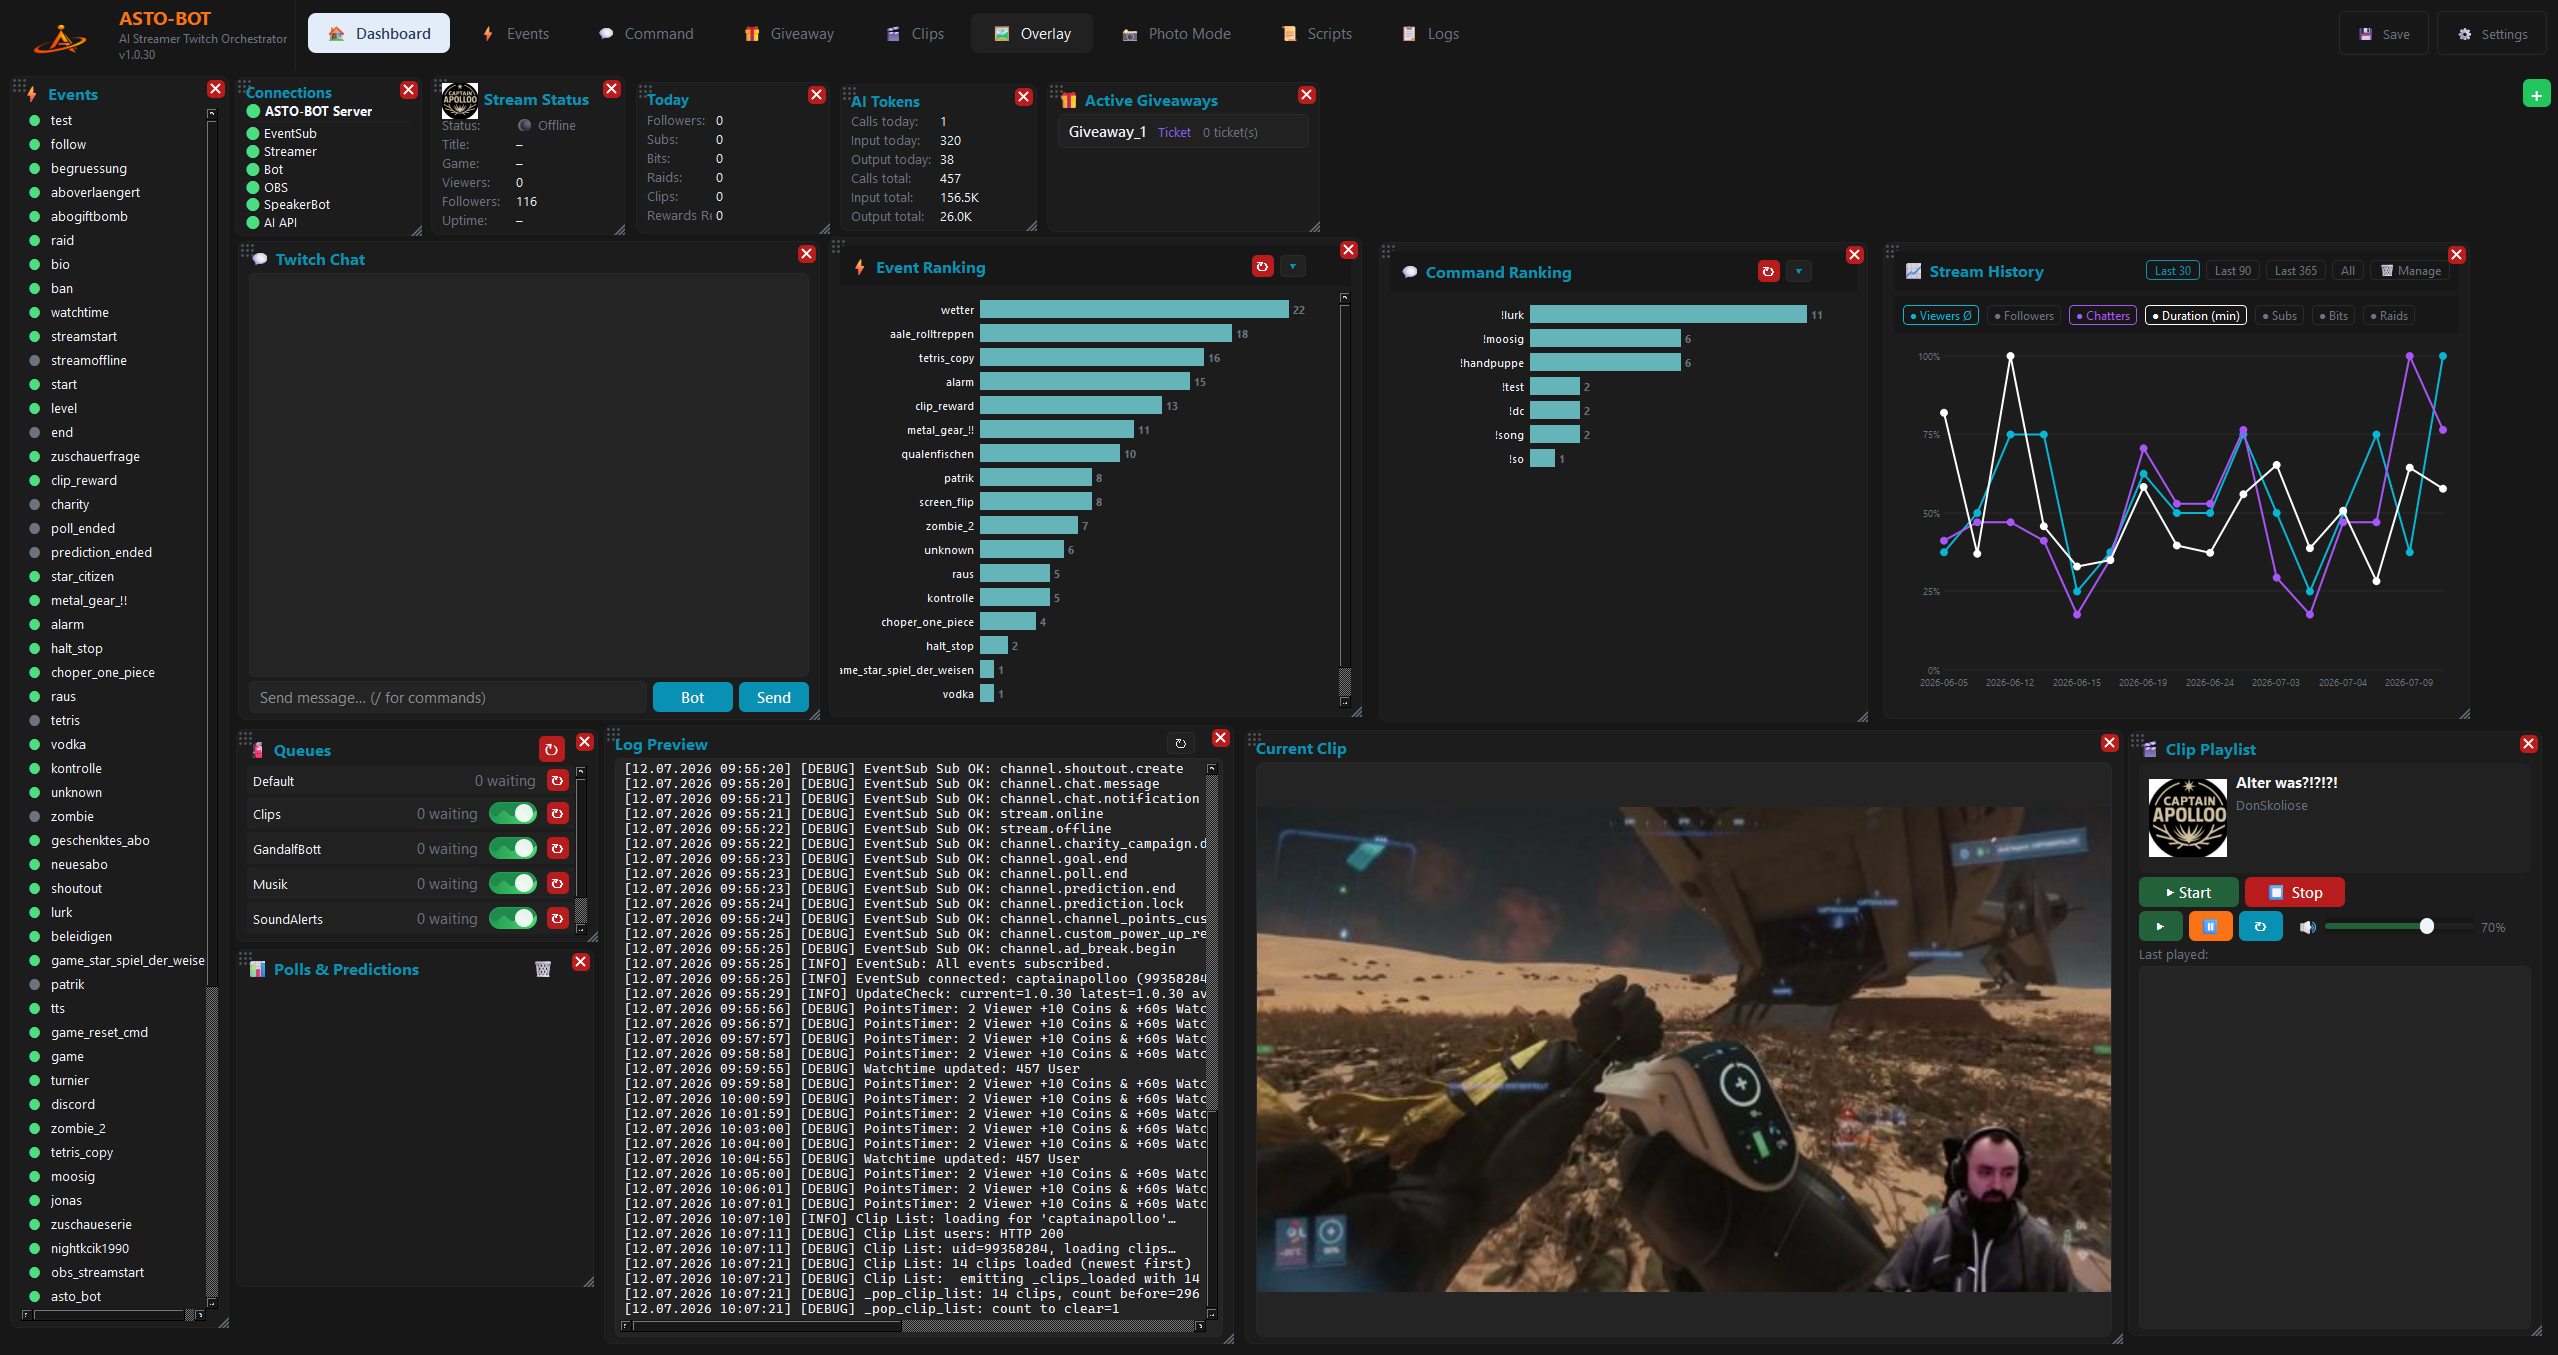
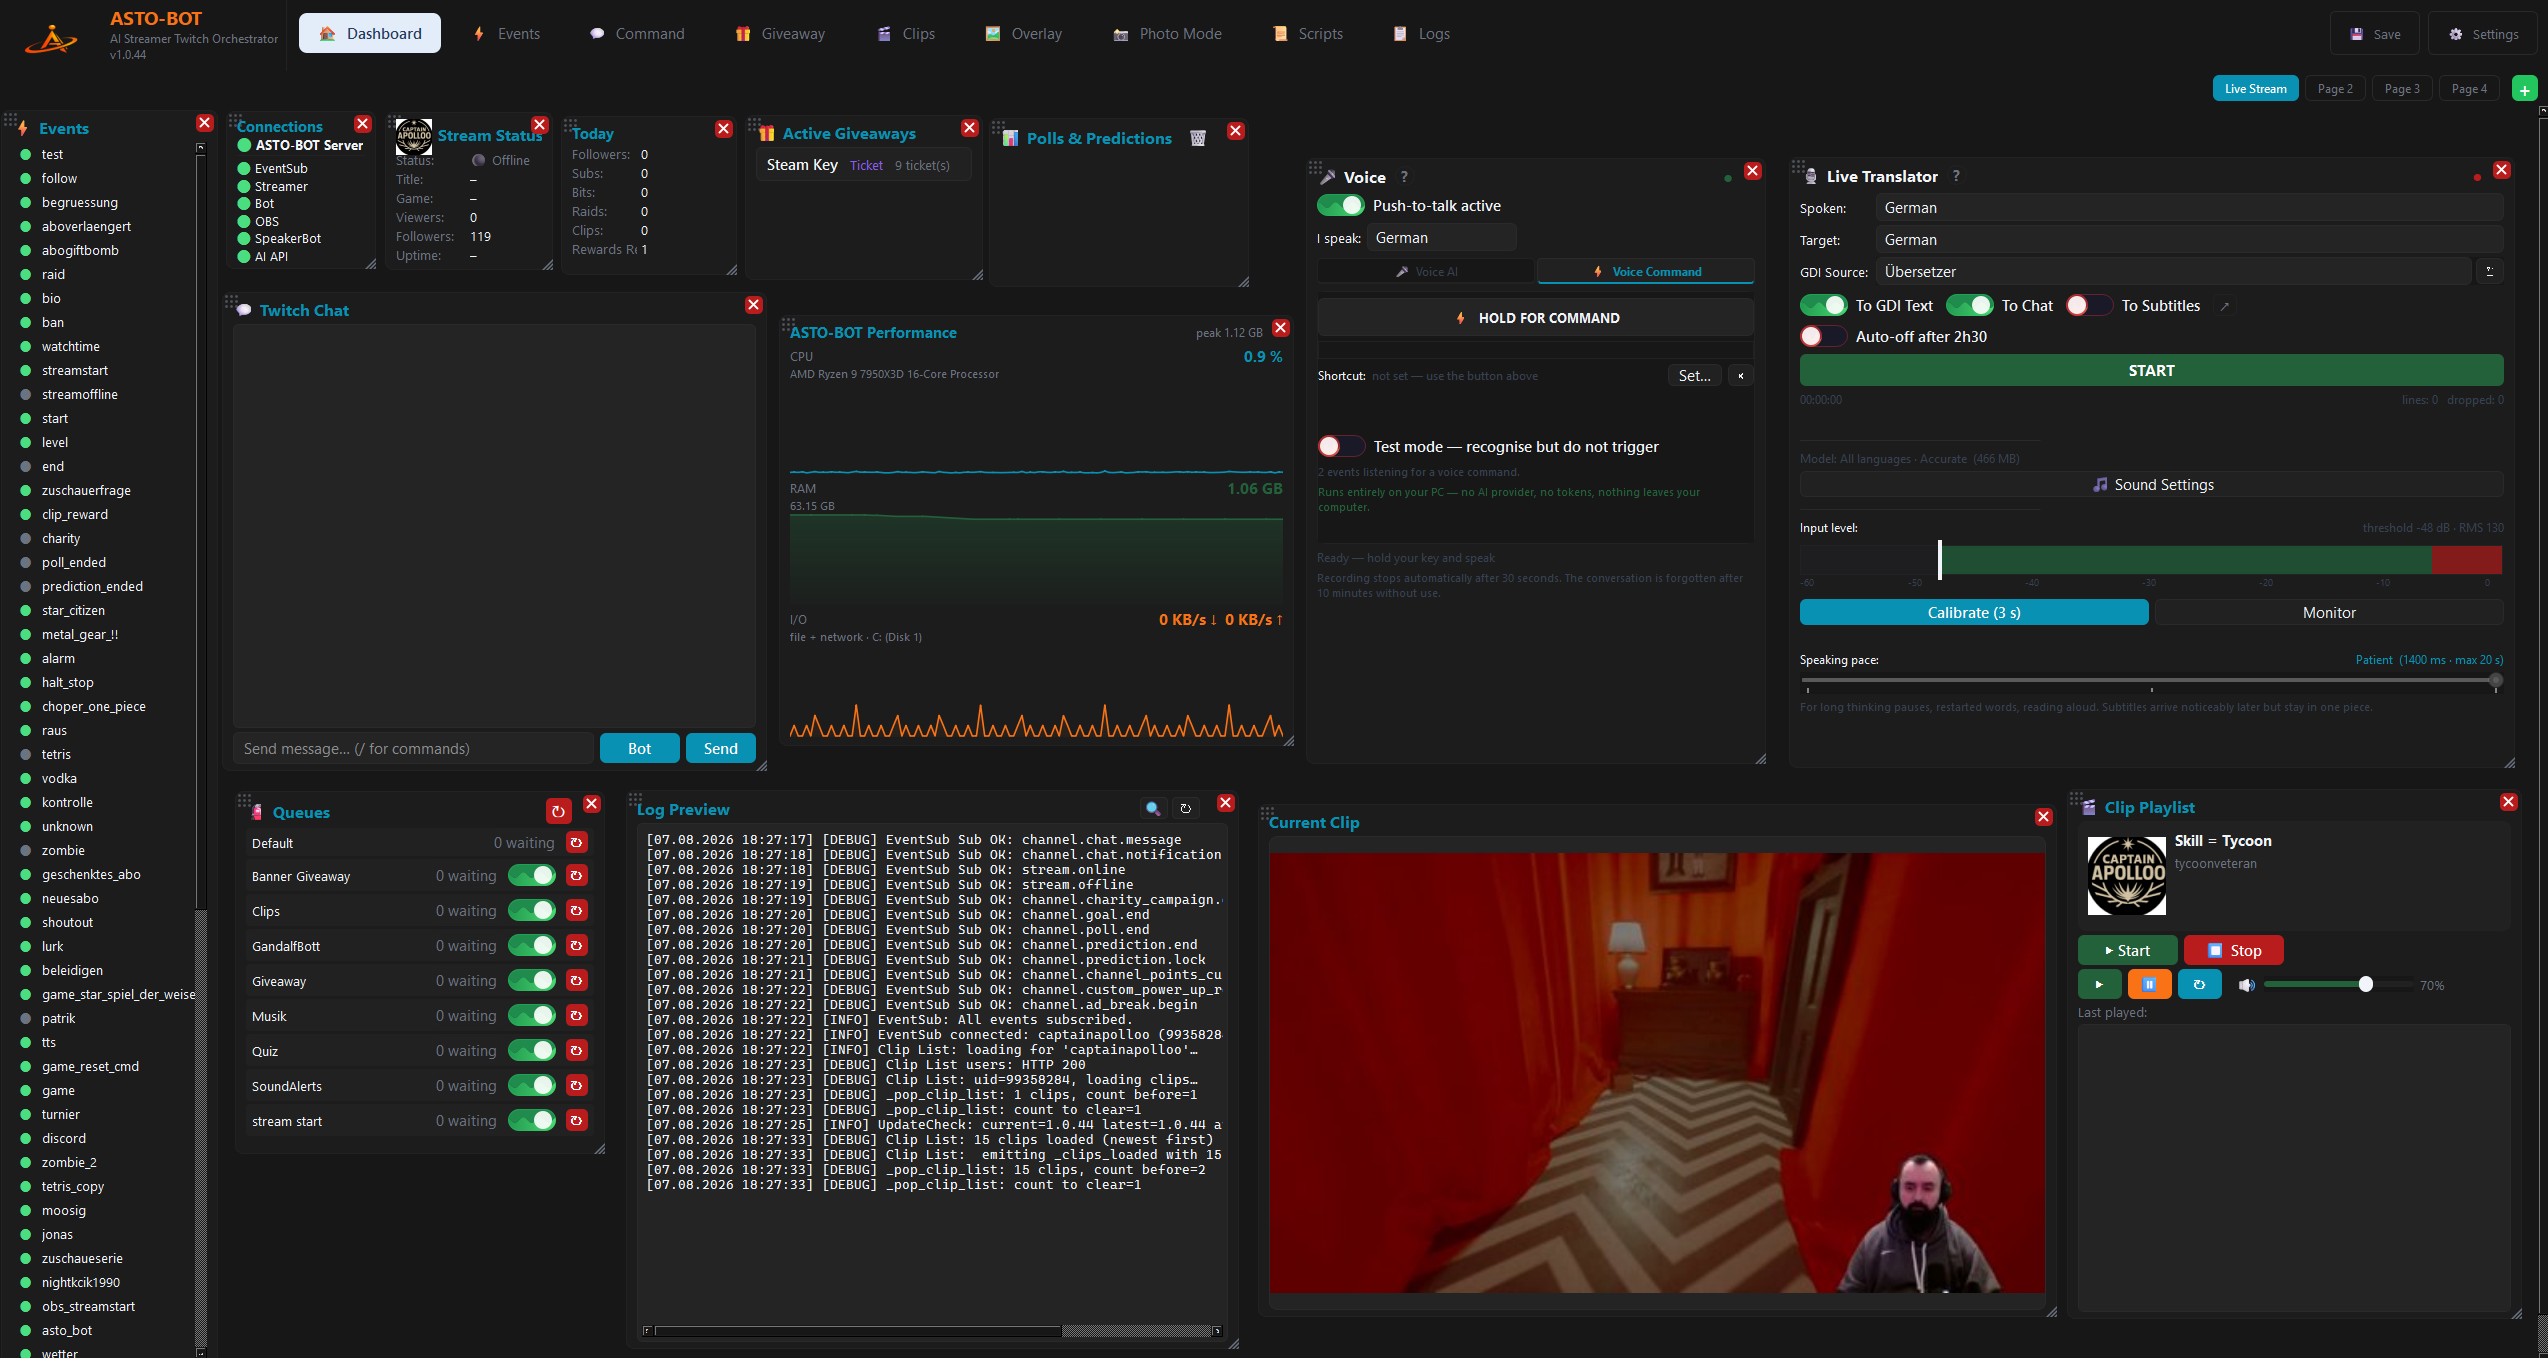
Readme

diff --git a/README.md b/README.md
@@ -1,7 +1,7 @@
 <div align="center">
   
 <img src="https://img.shields.io/badge/Platform-Windows%2010%20%2F%2011-blue?style=flat-square" alt="Platform"/>
-<a href="../../releases"><img src="https://img.shields.io/badge/Version-1.0.44-green?style=flat-square" alt="Version"/></a>
+<a href="../../releases"><img src="https://img.shields.io/badge/Version-1.0.45-green?style=flat-square" alt="Version"/></a>
 <a href="https://discord.gg/n2nstVwspk"><img src="https://img.shields.io/badge/Discord-Join-7289DA?style=flat-square&logo=discord&logoColor=white" alt="Discord"/></a>
 <a href="https://ko-fi.com/captainapolloo"><img src="https://img.shields.io/badge/Ko--fi-Support-FF5E5B?style=flat-square&logo=kofi&logoColor=white" alt="Ko-fi"/></a>
 
@@ -25,12 +25,15 @@
 - **ASTOSCRIPT** — built-in scripting language with variables, conditions, loops, lists, file access, HTTP requests and OBS control, plus a live debugger and an AI prompt generator
 - **Visual Overlay Editor** — build animated overlays (images + text) for OBS Browser Source or Window Capture, with per-step sounds and multiple timelines
 - **Browser Overlay** — a transparent, click-through desktop window for web-based overlays, controlled live via script, event or WebSocket
+- **Live Translator** — speech recognition running locally on your PC: turn what you say into live subtitles, or translate it into any of 33 languages, and send it to OBS text, Twitch chat or a subtitle page. With the same source and target language no AI is used at all — that mode works completely offline
+- **Voice AI** — hold a key, speak, release: talk to your bot on stream and let it answer in chat, read it aloud through Speaker.bot, or both
+- **Voice Command** — trigger any event by saying a sentence. Runs entirely on your machine — no AI provider, no tokens, nothing leaves your computer
 - **Clip Manager** — browse, label and play Twitch clips via clip lists, playlist or chat command
 - **Giveaway & Points System** — viewers earn custom points over time and spend them to enter giveaways (ticket draw or highest-bid mode)
 - **Photo Mode** — live group photo sessions where viewers join via chat command and appear on stream
 - **Moderation & Chat Modes** — ban, timeout, VIP, warnings, shield mode, followers-only, emote-only, sub-only, slow and unique chat, all as event actions
 - **Now Playing** — reads what is playing in Spotify, Apple Music or a browser and controls the player from an event
-- **Stream Deck & WebSocket** — trigger events, scripts, overlays, clips, the browser overlay and photo mode from any external tool on port 2519
+- **Stream Deck & WebSocket** — trigger events, scripts, overlays, clips, the browser overlay, photo mode, the translator and push-to-talk from any external tool on port 2519
 - **Channel Point Rewards** — create, edit and link rewards directly from ASTO-BOT (required for refund support)
 - **Chat Commands** — configurable commands with permission levels, cooldowns and group management
 
@@ -104,7 +107,8 @@ Viewers join a group photo by chat command and appear on stream together — wit
 
 - Windows 10 or Windows 11 (64-bit)
 - Internet connection (for Twitch authentication and AI features)
-- An API key from an AI provider (Google Gemini or OpenAI) — *only needed for the AI features*
+- An API key from an AI provider (Google Gemini or OpenAI) — *only needed for the AI features. Subtitles in the language you already speak, and voice commands, work without one*
+- A speech model, downloaded from inside the app in one click (148 MB – 1.5 GB) — *only needed for the Live Translator and Voice*
 - OBS Studio 28 or later *(optional, for overlay and scene automation)*
 
 -----
@@ -177,6 +181,31 @@ ASTO-BOT listens on `ws://127.0.0.1:2519` (local only — not reachable from the
 { "event": "greeting" }
 { "event": "shoutout", "input": "username" }
 
+// Dashboard pages
+{ "dashboard": 1 }                           // 1 – 4
+{ "dashboard": "next" }
+{ "dashboard": "prev" }
+
+// Live Translator
+{ "translator": "on" }
+{ "translator": "off" }
+{ "translator": "toggle" }                   // one key is enough
+
+// Where the translation goes
+{ "output": "subtitles", "action": "on" }    // on | off | toggle
+{ "output": "gdi", "action": "toggle" }      // OBS text source
+{ "output": "chat", "action": "toggle" }     // Twitch chat
+
+// Subtitle window
+{ "subtitles": "on" }                        // on | off | toggle
+{ "model": "release" }                       // free the speech model from RAM
+
+// Voice — push to talk (send on key DOWN and key UP)
+{ "ptt": "start" }                           // talk to the AI
+{ "ptt": "stop" }
+{ "ptt": "start", "mode": "command" }        // say a voice command instead
+{ "ptt": "stop", "mode": "command" }
+
 // Clips
 { "playlist": "start" }
 { "playlist": "stop" }
@@ -226,6 +255,16 @@ ASTO-BOT listens on `ws://127.0.0.1:2519` (local only — not reachable from the
 
 Every message is answered exactly once and in order — `{ "ok": true }` when it was accepted, or `{ "ok": false, "error": "…" }` with a reason when it was not.
 
+ASTO-BOT also sends messages **on its own** when something changes, so a Stream Deck key can show the real state instead of guessing:
+
+```json
+{ "translator": "on" }                       // also fires on auto-off
+{ "ptt": "recording", "mode": "ai" }         // mode: ai | cmd
+{ "ptt": "idle", "mode": "ai" }
+```
+
+Listen for these rather than tracking the state yourself — push-to-talk stops on its own after 30 seconds, and the translator has an auto-off timer.
+
 > For events, use the **signal name** (shown under the event name), not the display name or the chat trigger. Upper/lower case does not matter, and events without a trigger work fine. For everything else, the **name** is used.
 
 The port can be changed under **Settings → Websocket**, where this list is also available with click-to-copy.
@@ -258,5 +297,5 @@ If you enjoy ASTO-BOT and want to support the development: **[ko-fi.com/captaina
 -----
 
 <div align="center">
-<sub>Developed by CaptainApolloo · Version 1.0.44 · 2026 · All rights reserved</sub>
+<sub>Developed by CaptainApolloo · Version 1.0.45 · 2026 · All rights reserved</sub>
 </div>
